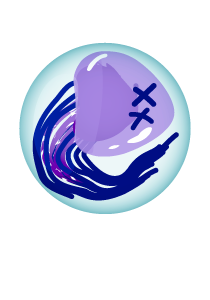
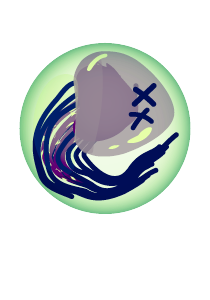
added slap function on jellyfish

diff --git a/models/character.class.js b/models/character.class.js
@@ -105,9 +105,11 @@ class Character extends MovableObject{
         'img/1.Sharkie/2.Long_IDLE/I14.png'
     ];
     world;
-    swimmingCharacter = new Audio('audio/creek-swimming.mp3');
-    shootCharacter = new Audio('audio/shootingBubble2.mp3');
-    characterGetHit = new Audio('audio/classic_hurt.mp3');
+    swimmingCharacterAudio = new Audio('audio/creek-swimming.mp3');
+    shootCharacterAudio = new Audio('audio/shootingBubble2.mp3');
+    characterGetHitAudio = new Audio('audio/classic_hurt.mp3');
+    characterSlapAudio = new Audio('audio/fin_slap.mp3');
+    characterGetElectricShockAudio = new Audio('audio/electric_zap.mp3');
     offset = {
             top: 35, 
             left: 85, 
@@ -131,6 +133,7 @@ class Character extends MovableObject{
     electricShock = false;
     istHitting = false;
     isStriking = false;
+    characterCanSlap = true;
 
 
 
@@ -153,26 +156,26 @@ class Character extends MovableObject{
 
     animate(){
         setInterval(() => {
-            this.swimmingCharacter.pause();
-            this.swimmingCharacter.volume = 0.1;
+            this.swimmingCharacterAudio.pause();
+            this.swimmingCharacterAudio.volume = 0.1;
 
             if (!this.charcterIsDead && this.world.keyboard.RIGHT && this.x < this.world.level.levelEndX) {
                 this.moveRight();
                 this.otherDirection = false;
-                this.swimmingCharacter.play();
+                this.swimmingCharacterAudio.play();
             }
             if (!this.charcterIsDead && this.world.keyboard.LEFT && this.x > -25 ) { // this.x > 0 steht für- bis der character pixel 0 vom ersten bild erreicht hat
                 this.moveLeft();
                 this.otherDirection = true;
-                this.swimmingCharacter.play();
+                this.swimmingCharacterAudio.play();
             }
             if (!this.charcterIsDead && this.world.keyboard.UP ) {
                 this.y -= this.speed;
-                this.swimmingCharacter.play();
+                this.swimmingCharacterAudio.play();
             }
             if (!this.charcterIsDead && this.world.keyboard.DOWN ) {
                 this.y += this.speed;
-                this.swimmingCharacter.play();
+                this.swimmingCharacterAudio.play();
             }
             if (!this.charcterIsDead && this.world.keyboard.SHOOT ) {
                 //hier nicht mehr schießen können -- nachtragen
@@ -194,6 +197,7 @@ class Character extends MovableObject{
         setInterval(() => {
             if (this.characterHaveLowHP && !this.otherDeath && !this.isInstandDead) { // ------------ died
                 this.standingValue = false;
+                this.characterCanSlap = false;
                 this.characterHaveLowHP = this.playAnimationFirstToLastImg(this.IMAGES_DEAD);
 
             } else 
@@ -201,25 +205,31 @@ class Character extends MovableObject{
             if (this.isInstandDead  &&  this.electricDeath && this.otherDeath) { // ------------ instand died
                 this.electricShock = true;
                 this.standingValue = false;
+                this.characterCanSlap = false;
+                this.characterGetElectricShockAudio.play();
+                this.characterGetElectricShockAudio.volume = 0.5;
                 this.electricDeath = this.playAnimationFirstToLastImg(this.IMAGES_INSTAND_DEAD);
             } else 
 
             if (this.isHurt() && !this.isInstandDead && !this.istHitting) { // ------------ get dmg
                 this.playAnimation(this.IMAGES_HURT);
-                // this.characterGetHit.loop = false;
-                // this.characterGetHit.play();
-                // this.characterGetHit.volume = 0.05;
+                // this.characterGetHitAudio.loop = false;
+                // this.characterGetHitAudio.play();
+                // this.characterGetHitAudio.volume = 0.05;
                 this.resetSleepTimeout();
             } else
 
-            if (this.shootAnimation && this.electricDeath && this.characterHaveLowHP) { // ------------ shoot
+            if (this.shootAnimation && !this.characterHaveLowHP && this.electricDeath) { // ------------ shoot
                 this.shootAnimation = this.playAnimationFirstToLastImg(this.IMAGES_SHOOT);
                 this.resetSleepTimeout();
             } else 
 
-            if (this.characterStrikes && this.characterStrikesValue && this.istHitting) { // ------------ strike
+            if (this.characterStrikes && this.characterStrikesValue && this.istHitting && this.characterCanSlap) { // ------------ strike
                 this.offset.right = 5;
                 this.offset.top = 5;
+                this.characterSlapAudio.play();
+                this.characterSlapAudio.volume = 0.5;
+                // this.characterSlapAudio.loop = false;
                 this.characterStrikesValue = this.playAnimationFirstToLastImg(this.IMAGES_FIN_STRIKE);
                 this.isStriking = true;
                 this.enemyGetHit = true;

diff --git a/models/jellyFish-object.class.js b/models/jellyFish-object.class.js
@@ -12,10 +12,10 @@ class JellyFish extends MovableObject {
         'img/2.Enemy/2_Jelly_fish/Súper_dangerous/Pink4.png'
     ];
     IMAGES_DIED = [
-        'img/2.Enemy/2_Jelly_fish/Dead/Pink/P1.png',
-        'img/2.Enemy/2_Jelly_fish/Dead/Pink/P2.png',
-        'img/2.Enemy/2_Jelly_fish/Dead/Pink/P3.png',
-        'img/2.Enemy/2_Jelly_fish/Dead/Pink/P4.png'
+        'img/2.Enemy/2_Jelly_fish/Dead/Lila/L1.png',
+        'img/2.Enemy/2_Jelly_fish/Dead/Lila/L2.png',
+        'img/2.Enemy/2_Jelly_fish/Dead/Lila/L3.png',
+        'img/2.Enemy/2_Jelly_fish/Dead/Lila/L4.png'
     ];
     width = 80;
     height = 80;
@@ -26,7 +26,8 @@ class JellyFish extends MovableObject {
         right: 15,
         bottom: 10
     }
-
+    enemySpaledAway = false;
+    // changeAnimation = false;
 
 
     constructor(){
@@ -36,9 +37,13 @@ class JellyFish extends MovableObject {
         this.x = 55 + Math.random() * 500;
         // this.x = 550 + Math.random() * 1000;
         this.speed = 0.5 + Math.random() * 1;
+        // this.enemyGetHit;
+        // this.changeDirectionHittedEnemy;
+        // this.changeAnimation;
+        // this.enemyGetSlap();
         this.animate();
-        
     }
+
 
     animate(){
         // setInterval(() => { //gegener soll sich nach links bewegen mit 60fps
@@ -46,15 +51,11 @@ class JellyFish extends MovableObject {
         // }, 1000 / 60);
 
         setInterval(() => {
-            this.checkIfBubbleHit();
-        }, 50);
+            this.loadFlowAnimation();
+        },  1000 / 60);
 
         setInterval( () => { // gegener soll alle 0.1s seim img ändern
-            if (this.randomNumber === 0) {
-                this.playAnimation(this.IMAGES_WALIKNG);
-            } else {
-                this.playAnimation(this.IMAGES_WALIKNG_DANGEROUS);
-            }
+            this.walkingAnimation();
         }, 180 );
 
         setInterval( () => {
@@ -73,7 +74,22 @@ class JellyFish extends MovableObject {
         }
     }
 
+    walkingAnimation(){
+        if (this.randomNumber === 0) {
+            this.playAnimation(this.IMAGES_WALIKNG);
+        } else {
+            this.playAnimation(this.IMAGES_WALIKNG_DANGEROUS);
+        }
+    }
 
-    checkIfBubbleHit(){
+    loadFlowAnimation(){
+        if (this.randomNumber === 0 && this.enemyGetHit) {
+            this.enemySpaledAway = true;
+            this.enemyGetSlap();
+        } else {
+            this.enemyGetHit = false;
+        }
+        // this.enemySpaledAway = true;
+        // this.enemyGetSlap();
     }
 }

diff --git a/models/world.class.js b/models/world.class.js
@@ -139,14 +139,14 @@ class World {
     
 
     checkShootBubble(){
-        if (this.keyboard.SHOOT && this.toxicBottlesBar.bottleValue > 0 && this.isInstandDead && this.istHitting) {
+        if (this.keyboard.SHOOT && this.toxicBottlesBar.bottleValue > 0 && !this.character.characterHaveLowHP &&  this.character.electricDeath) {
             this.character.shootAnimation = true;
             this.character.currentImage = 0;
             this.toxicBottlesBar.bottleValue --;
             this.toxicBottlesBar.getValueToxicBar(this.toxicBottlesBar.bottleValue);
             setTimeout(() => {
-                this.character.shootCharacter.play();
-                this.character.shootCharacter.volume = 0.05;
+                this.character.shootCharacterAudio.play();
+                this.character.shootCharacterAudio.volume = 0.05;
                 if (!this.character.otherDirection) {
                     let valueBubble = this.character.otherDirection;
                     let bubble = new TrowableObjct(this.character.x + 140, this.character.y + 80, valueBubble);
@@ -171,7 +171,6 @@ class World {
                 this.toxicBottlesBar.getBottlevolume = 0.01;
             }
         });
-
     }
 
 
@@ -252,9 +251,7 @@ class World {
     characterIsSlepping(){
         this.level.enemies.forEach((enemy) => {
             if (this.character.isColliding(enemy)) {
-                console.log(enemy.x)
-                if (this.character.isStriking && enemy instanceof Fish) {
-                    console.log('strike')
+                if (this.character.isStriking && enemy) {
                     enemy.enemyGetHit = true;
                     enemy.changeDirectionHittedEnemy = this.character.otherDirection;
                 }

diff --git a/models/fish.class.js b/models/fish.class.js
@@ -18,7 +18,7 @@ class Fish extends MovableObject {
         right: 10,
         bottom: 15
     }
-    changeAnimation = false;
+    // changeAnimation = false;
     // enemyGetHit = false;
 
     constructor(){
@@ -27,10 +27,6 @@ class Fish extends MovableObject {
         this.loadImages(this.IMAGES_DEAD);
         this.x = 550 + Math.random() * 1000;
         this.speed = 0.5 + Math.random() * 1;
-        this.enemyGetHit;
-        this.changeDirectionHittedEnemy;
-        // this.world.character.offset.right;
-        // this.world.character.offset.top;
         this.animate();
     }
 
@@ -47,21 +43,14 @@ class Fish extends MovableObject {
 
         setInterval(() => {
             this.enemyGetSlap();
+            this.loadDeadAnimation();
         },  1000 / 60);
     }
 
 
-    enemyGetSlap(){
+    loadDeadAnimation(){
         if (this.enemyGetHit) {
-            this.changeAnimation = true;
-            console.log('death animation')
             this.playAnimation(this.IMAGES_DEAD);
-            this.y -= 2;
-            if (!this.changeDirectionHittedEnemy) {
-                this.x += 3;
-            } else if (this.changeDirectionHittedEnemy) {
-                this.x -= 3;
-            }
         }
     }
     

diff --git a/models/movable-object.class.js b/models/movable-object.class.js
@@ -12,7 +12,7 @@ class MovableObject extends drawableObject{
     randomNumber = 0;
     enemyGetHit = false;
     changeDirectionHittedEnemy = true;
-
+    changeAnimation = false;
 
 
     moveRight() {
@@ -147,4 +147,17 @@ class MovableObject extends drawableObject{
     //         return false;
     //     }
     // }
+
+
+    enemyGetSlap(){
+        if (this.enemyGetHit) {
+            this.changeAnimation = true;
+            this.y -= 3;
+            if (!this.changeDirectionHittedEnemy) {
+                this.x += 4;
+            } else if (this.changeDirectionHittedEnemy) {
+                this.x -= 4;
+            }
+        }
+    }
 }

diff --git a/models/bottles-object.class.js b/models/bottles-object.class.js
@@ -10,7 +10,8 @@ class Bottles extends MovableObject{
     constructor(){
         super().loadImage(this.IMAGES_BOTTLES[0]);
         this.loadImages(this.IMAGES_BOTTLES);
-        this.x = (200 + Math.random() * 500) * 2;
+        this.x = 200;
+        // this.x = (200 + Math.random() * 500) * 2;
         this.y = 360;
         this.animate();
     }

diff --git a/models/toxicBottles-bar.class.js b/models/toxicBottles-bar.class.js
@@ -22,7 +22,6 @@ class toxicBottlesBar extends MovableObject {
 
 
     getValueToxicBar(bottleValue){
-        this.bottleValue = bottleValue;
         let imagePath = this.IMAGES_TOXIC_BOTTLES[this.loadValue(bottleValue)];
         this.img = this.imageCache[imagePath];
     }
